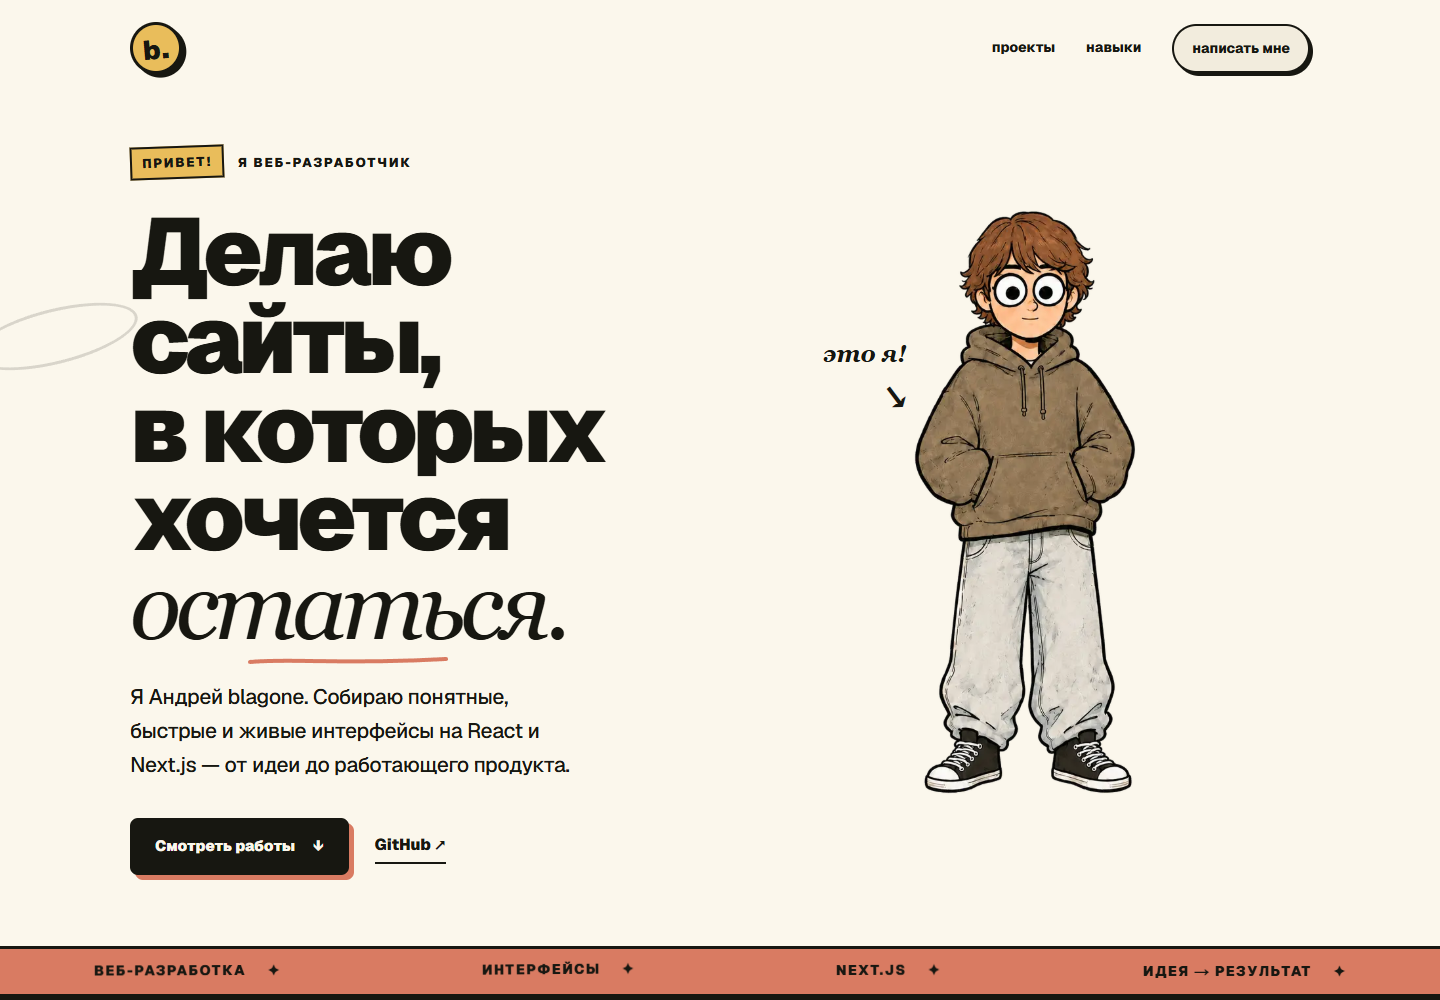
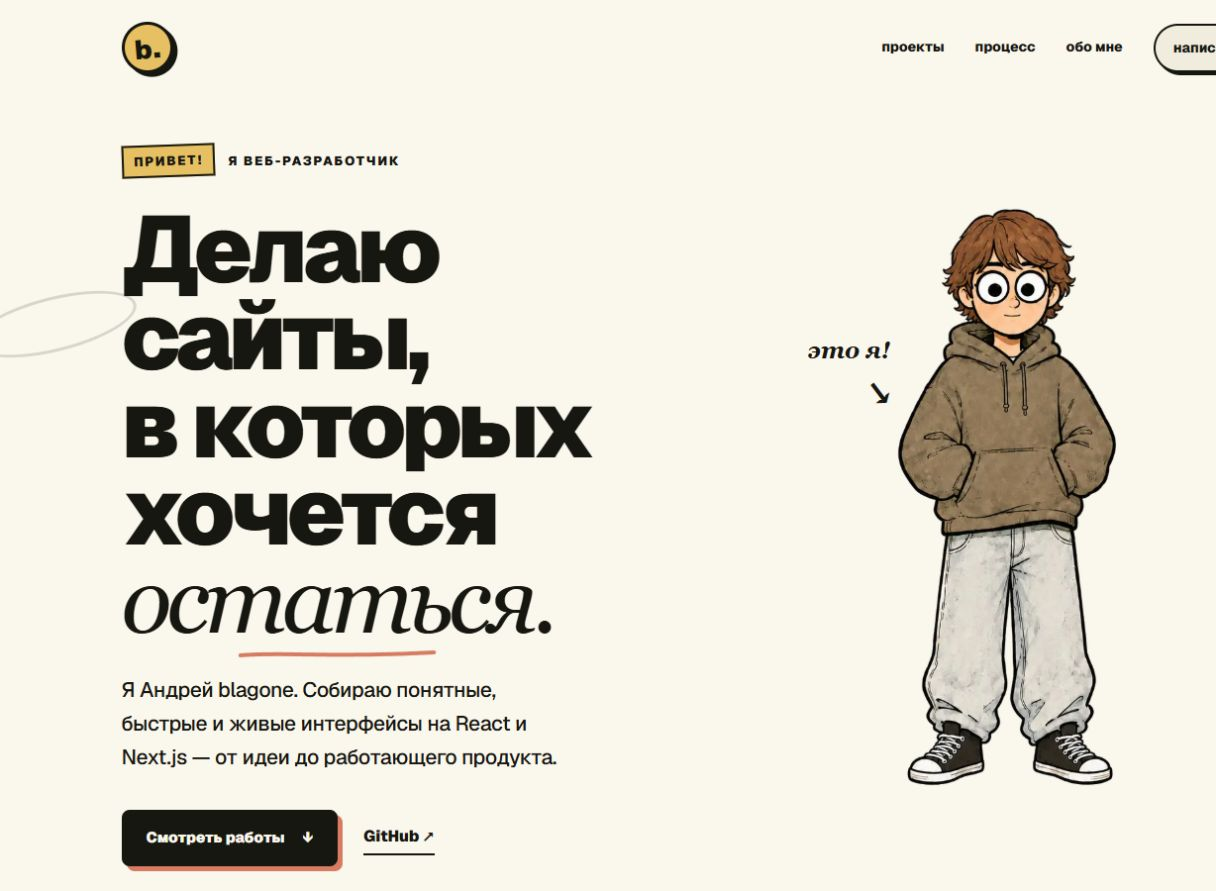
feat: strengthen portfolio case study

diff --git a/src/app/page.tsx b/src/app/page.tsx
@@ -5,7 +5,7 @@ import MascotHero from "./components/MascotHero";
 type Project = { index: string; title: string; description: string; result: string; tags: string[]; preview: string; liveUrl: string; githubUrl: string; caseUrl: string; accent: string };
 
 const projects: Project[] = [
-  { index: "01", title: "Сайт-портфолио", description: "Задача: собрать узнаваемую личную страницу, на которой проекты легко посмотреть и открыть.", result: "Результат: адаптивный сайт на Next.js с авторской иллюстрацией и прямыми ссылками на работы.", tags: ["Next.js", "TypeScript", "UI"], preview: "/previews/portfolio.png", liveUrl: "https://portfolio-kappa-teal-36.vercel.app", githubUrl: "https://github.com/blagone/portfolio", caseUrl: "/projects/portfolio", accent: "card-coral" },
+  { index: "01", title: "Сайт-портфолио", description: "Задача: показать характер разработчика и сделать оценку проектов быстрой и понятной.", result: "Результат: адаптивный Next.js-сайт с авторским персонажем, тремя живыми кейсами, процессом работы и контактами.", tags: ["Next.js", "TypeScript", "Case studies"], preview: "/previews/portfolio.png", liveUrl: "https://portfolio-kappa-teal-36.vercel.app", githubUrl: "https://github.com/blagone/portfolio", caseUrl: "/projects/portfolio", accent: "card-coral" },
   { index: "02", title: "Ember & Bean", description: "Задача: выстроить цельный цифровой образ specialty-кофейни и провести посетителя от истории к меню.", result: "Результат: адаптивный Next.js-концепт с 10-позиционным меню, галереей, motion-системой и понятным CTA.", tags: ["Next.js", "TypeScript", "Motion"], preview: "/previews/coffee.png", liveUrl: "https://coffee-landing-kohl.vercel.app", githubUrl: "https://github.com/blagone/coffee-landing", caseUrl: "/projects/ember-bean", accent: "card-sage" },
   { index: "03", title: "Flowboard", description: "Задача: превратить ежедневное планирование в понятный рабочий процесс без регистрации и лишних экранов.", result: "Результат: адаптивная PWA-доска с архивом, тегами, поиском, аналитикой и переносимыми JSON-резервными копиями.", tags: ["Next.js", "TypeScript", "PWA"], preview: "/previews/flowboard.png", liveUrl: "https://flowboard-blagone.vercel.app", githubUrl: "https://github.com/blagone/task-board", caseUrl: "/projects/flowboard/case", accent: "card-sun" },
 ];

diff --git a/src/app/projects/portfolio/page.tsx b/src/app/projects/portfolio/page.tsx
@@ -7,13 +7,13 @@ export default function PortfolioCase() {
   return <CasePage
     eyebrow="кейс 01"
     title="Сайт-портфолио"
-    intro="Личная страница с авторской иллюстрацией, понятной навигацией и прямым доступом к работам."
+    intro="Персональный продуктовый сайт с авторским персонажем, живыми проектами и отдельными страницами-кейсами."
     preview="/previews/portfolio.png"
     previewAlt="Главная страница сайта-портфолио"
-    task="Собрать узнаваемую личную страницу, на которой проекты легко посмотреть и открыть."
-    solution="Адаптивный интерфейс на Next.js и TypeScript объединил бумажную фактуру, выразительную типографику и авторского иллюстрированного персонажа."
-    result="Проекты, исходный код и контакты собраны в одной цельной странице, которая работает на разных размерах экрана."
-    tags={["Next.js", "TypeScript", "UI"]}
+    task="Показать личный стиль веб-разработчика и одновременно дать посетителю быстрый путь к работающим продуктам, коду и способам связи."
+    solution="Бумажная фактура, контрастная типографика и прозрачная иллюстрация персонажа собраны в единую адаптивную систему. Каждая карточка показывает задачу и результат, а отдельные кейсы раскрывают решения. Страница дополнена процессом работы, навыками, почтой, Telegram и GitHub."
+    result="Получился единый хаб для трёх опубликованных проектов с живыми ссылками, исходным кодом и подробными кейсами. Добавлены SEO-метаданные, Open Graph, sitemap, robots, аналитика и собственная страница 404."
+    tags={["Next.js", "TypeScript", "Responsive", "Case studies", "SEO", "Vercel Analytics"]}
     liveUrl="https://portfolio-kappa-teal-36.vercel.app"
     githubUrl="https://github.com/blagone/portfolio"
   />;
